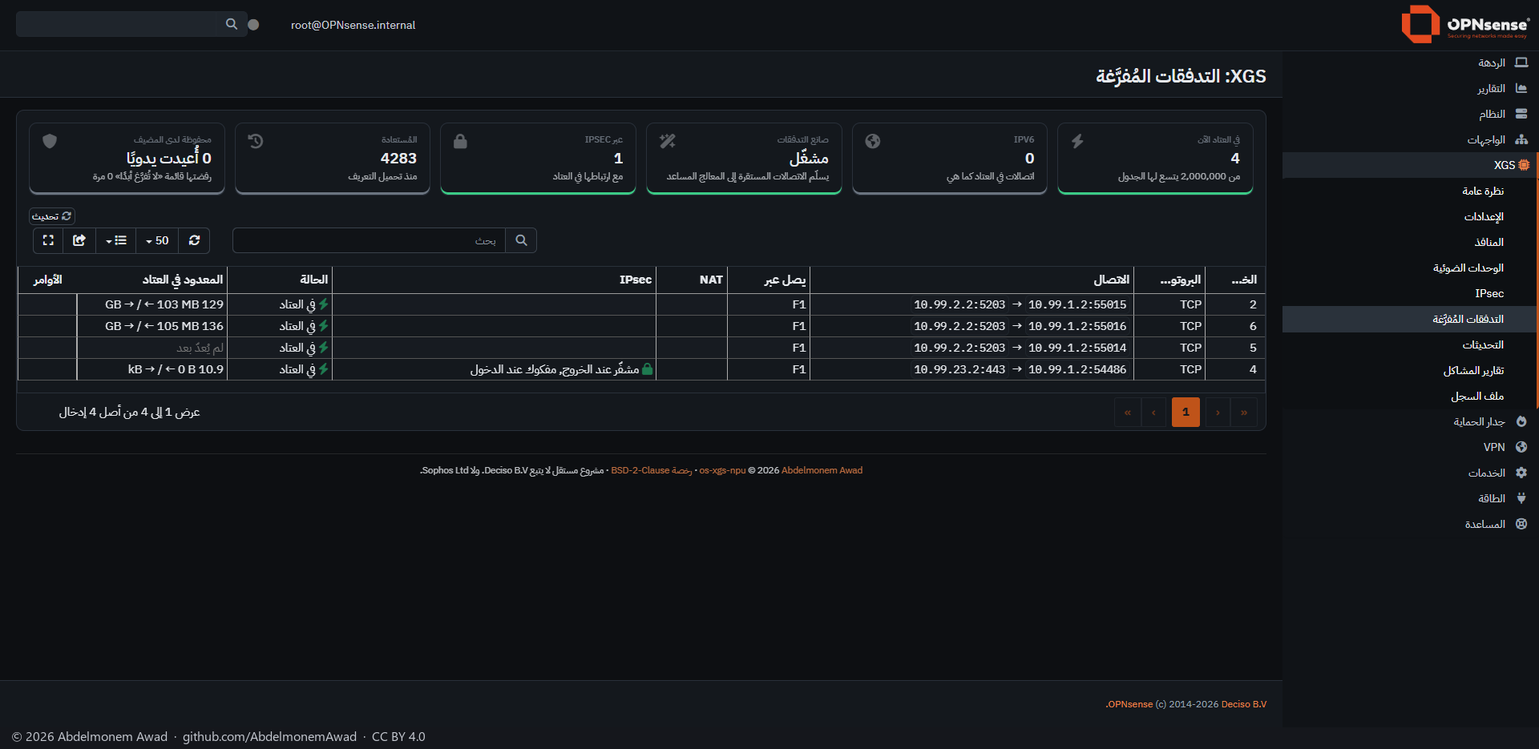
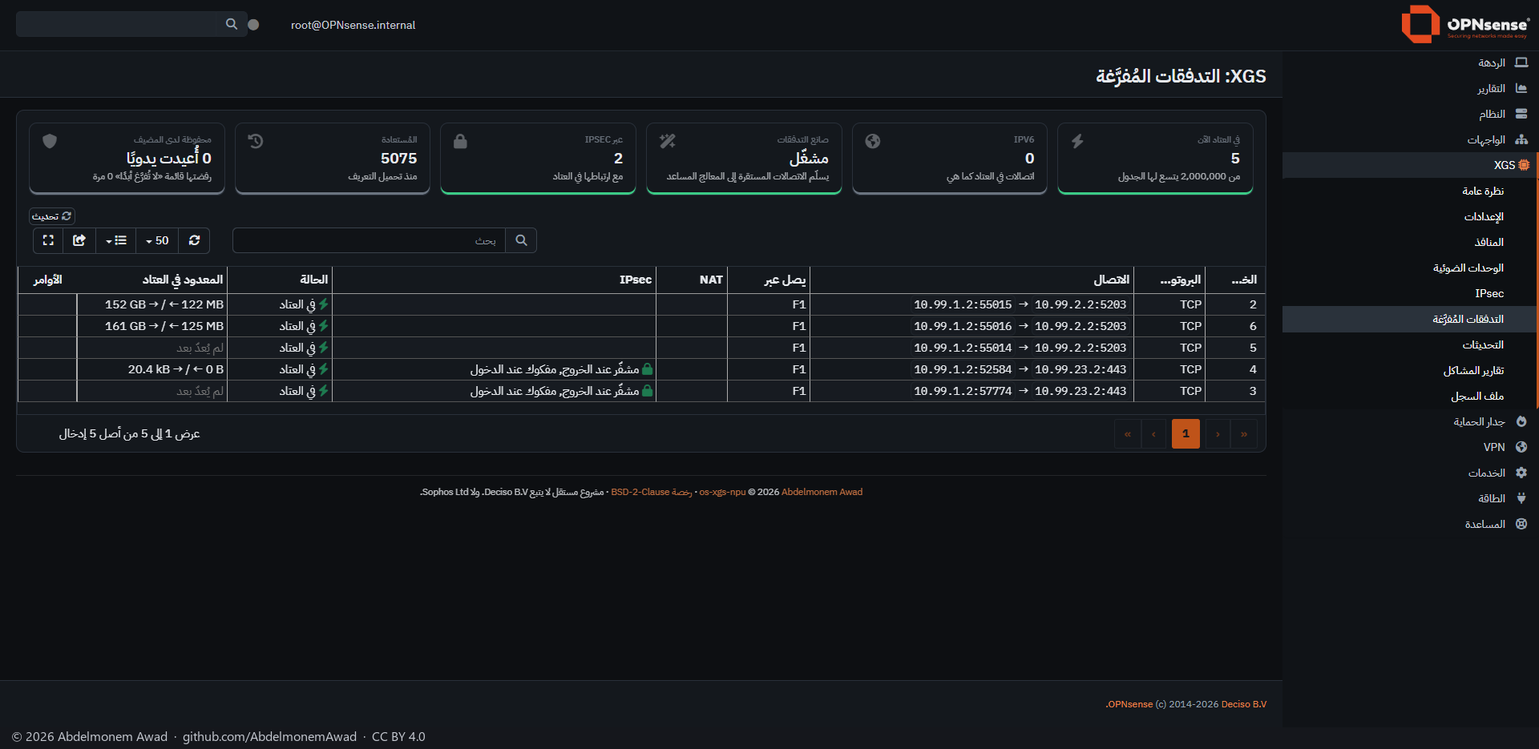
docs: counts on a reused slot, given to pf, and the port counts, measured; the pages photographed with traffic

diff --git a/docs/images/README.md b/docs/images/README.md
@@ -17,12 +17,12 @@ to a new image, and the checks fail on one without them.
 
 | folder | what it holds | images |
 |---|---|---|
-| [screens/](screens/) | The web interface, page by page, in English and in Arabic | 30 |
+| [screens/](screens/) | The web interface, page by page, in English and in Arabic | 36 |
 | [hardware/](hardware/) | Photographs and drawings of the appliances, one folder each | 40 |
-| [measurements/](measurements/) | Each measurement's photographs, in a folder named after its page | 149 |
+| [measurements/](measurements/) | Each measurement's photographs, in a folder named after its page | 153 |
 | [readme/](readme/) | The README's banner and status board, drawn by tools/readme-art.py | 4 |
 
-223 images in all.
+233 images in all.
 
 ## The web interface
 
@@ -34,9 +34,12 @@ in [docs/guide/the-pages.md](../guide/the-pages.md), English first and Arabic un
 <tr><td valign="top"><sub>Lobby: Dashboard on an XGS 3300</sub></td><td valign="top"><a href="screens/en/00-lobby-dashboard.png"><img src="screens/en/00-lobby-dashboard.png" alt="Lobby: Dashboard on an XGS 3300 - English" width="100%"></a></td><td valign="top"><a href="screens/ar/00-lobby-dashboard.png"><img src="screens/ar/00-lobby-dashboard.png" alt="Lobby: Dashboard on an XGS 3300 - Arabic" width="100%"></a></td></tr>
 <tr><td valign="top"><sub>XGS: Overview on an XGS 3300: the front panel drawn with each port's link, cards for the coprocessor, hardware offloading, the IPsec engine, the front ports, the switch chip and the last restart, and the board's limits</sub></td><td valign="top"><a href="screens/en/01-xgs-overview.png"><img src="screens/en/01-xgs-overview.png" alt="XGS: Overview on an XGS 3300: the front panel drawn with each port's link, cards for the coprocessor, hardware offloading, the IPsec engine, the front ports, the switch chip and the last restart, and the board's limits - English" width="100%"></a></td><td valign="top"><a href="screens/ar/01-xgs-overview.png"><img src="screens/ar/01-xgs-overview.png" alt="XGS: Overview on an XGS 3300: the front panel drawn with each port's link, cards for the coprocessor, hardware offloading, the IPsec engine, the front ports, the switch chip and the last restart, and the board's limits - Arabic" width="100%"></a></td></tr>
 <tr><td valign="top"><sub>XGS: Settings on an XGS 3300</sub></td><td valign="top"><a href="screens/en/02-xgs-settings.png"><img src="screens/en/02-xgs-settings.png" alt="XGS: Settings on an XGS 3300 - English" width="100%"></a></td><td valign="top"><a href="screens/ar/02-xgs-settings.png"><img src="screens/ar/02-xgs-settings.png" alt="XGS: Settings on an XGS 3300 - Arabic" width="100%"></a></td></tr>
+<tr><td valign="top"><sub>XGS: Settings on an XGS 3300, further down: Never offloaded, Cut open connections when listed, Cut connections by TLS fingerprint</sub></td><td valign="top"><a href="screens/en/02b-xgs-settings-cuts.png"><img src="screens/en/02b-xgs-settings-cuts.png" alt="XGS: Settings on an XGS 3300, further down: Never offloaded, Cut open connections when listed, Cut connections by TLS fingerprint - English" width="100%"></a></td><td valign="top"><a href="screens/ar/02b-xgs-settings-cuts.png"><img src="screens/ar/02b-xgs-settings-cuts.png" alt="XGS: Settings on an XGS 3300, further down: Never offloaded, Cut open connections when listed, Cut connections by TLS fingerprint - Arabic" width="100%"></a></td></tr>
 <tr><td valign="top"><sub>XGS: Ports on an XGS 3300</sub></td><td valign="top"><a href="screens/en/03-xgs-ports.png"><img src="screens/en/03-xgs-ports.png" alt="XGS: Ports on an XGS 3300 - English" width="100%"></a></td><td valign="top"><a href="screens/ar/03-xgs-ports.png"><img src="screens/ar/03-xgs-ports.png" alt="XGS: Ports on an XGS 3300 - Arabic" width="100%"></a></td></tr>
 <tr><td valign="top"><sub>XGS: Transceivers on an XGS 3300</sub></td><td valign="top"><a href="screens/en/04-xgs-transceivers.png"><img src="screens/en/04-xgs-transceivers.png" alt="XGS: Transceivers on an XGS 3300 - English" width="100%"></a></td><td valign="top"><a href="screens/ar/04-xgs-transceivers.png"><img src="screens/ar/04-xgs-transceivers.png" alt="XGS: Transceivers on an XGS 3300 - Arabic" width="100%"></a></td></tr>
 <tr><td valign="top"><sub>XGS: IPsec on an XGS 3300</sub></td><td valign="top"><a href="screens/en/05-xgs-ipsec.png"><img src="screens/en/05-xgs-ipsec.png" alt="XGS: IPsec on an XGS 3300 - English" width="100%"></a></td><td valign="top"><a href="screens/ar/05-xgs-ipsec.png"><img src="screens/ar/05-xgs-ipsec.png" alt="XGS: IPsec on an XGS 3300 - Arabic" width="100%"></a></td></tr>
+<tr><td valign="top"><sub>XGS: IPsec, Associations in the engine: one association each way through the tunnel to the XGS 136</sub></td><td valign="top"><a href="screens/en/05b-xgs-ipsec-associations.png"><img src="screens/en/05b-xgs-ipsec-associations.png" alt="XGS: IPsec, Associations in the engine: one association each way through the tunnel to the XGS 136 - English" width="100%"></a></td><td valign="top"><a href="screens/ar/05b-xgs-ipsec-associations.png"><img src="screens/ar/05b-xgs-ipsec-associations.png" alt="XGS: IPsec, Associations in the engine: one association each way through the tunnel to the XGS 136 - Arabic" width="100%"></a></td></tr>
+<tr><td valign="top"><sub>XGS: IPsec, Counters: frames decrypted and encrypted by the engine</sub></td><td valign="top"><a href="screens/en/05c-xgs-ipsec-counters.png"><img src="screens/en/05c-xgs-ipsec-counters.png" alt="XGS: IPsec, Counters: frames decrypted and encrypted by the engine - English" width="100%"></a></td><td valign="top"><a href="screens/ar/05c-xgs-ipsec-counters.png"><img src="screens/ar/05c-xgs-ipsec-counters.png" alt="XGS: IPsec, Counters: frames decrypted and encrypted by the engine - Arabic" width="100%"></a></td></tr>
 <tr><td valign="top"><sub>XGS: Offloaded Flows on an XGS 3300</sub></td><td valign="top"><a href="screens/en/06-xgs-offloaded-flows.png"><img src="screens/en/06-xgs-offloaded-flows.png" alt="XGS: Offloaded Flows on an XGS 3300 - English" width="100%"></a></td><td valign="top"><a href="screens/ar/06-xgs-offloaded-flows.png"><img src="screens/ar/06-xgs-offloaded-flows.png" alt="XGS: Offloaded Flows on an XGS 3300 - Arabic" width="100%"></a></td></tr>
 <tr><td valign="top"><sub>XGS: Updates on an XGS 3300</sub></td><td valign="top"><a href="screens/en/07-xgs-updates.png"><img src="screens/en/07-xgs-updates.png" alt="XGS: Updates on an XGS 3300 - English" width="100%"></a></td><td valign="top"><a href="screens/ar/07-xgs-updates.png"><img src="screens/ar/07-xgs-updates.png" alt="XGS: Updates on an XGS 3300 - Arabic" width="100%"></a></td></tr>
 <tr><td valign="top"><sub>XGS: Problem Reports on an XGS 3300</sub></td><td valign="top"><a href="screens/en/08-xgs-problem-reports.png"><img src="screens/en/08-xgs-problem-reports.png" alt="XGS: Problem Reports on an XGS 3300 - English" width="100%"></a></td><td valign="top"><a href="screens/ar/08-xgs-problem-reports.png"><img src="screens/ar/08-xgs-problem-reports.png" alt="XGS: Problem Reports on an XGS 3300 - Arabic" width="100%"></a></td></tr>
@@ -163,7 +166,7 @@ The page: [bench-2026-10-17.md](../measurements/bench-2026-10-17.md).
 | [34-ipsec-hw-pc-to-136.png](measurements/bench-2026-10-17/34-ipsec-hw-pc-to-136.png) | IPsec in hardware, PC to the XGS 136: 902 Mbit/s | [bench-2026-10-17.md](../measurements/bench-2026-10-17.md) |
 | [35-ipsec-hw-136-to-pc.png](measurements/bench-2026-10-17/35-ipsec-hw-136-to-pc.png) | IPsec in hardware, the XGS 136 to the PC: 893 Mbit/s | [bench-2026-10-17.md](../measurements/bench-2026-10-17.md) |
 
-### measurements/hw-counters-2026-10-19/ (2)
+### measurements/hw-counters-2026-10-19/ (6)
 
 The page: [hw-counters-2026-10-19.md](../measurements/hw-counters-2026-10-19.md).
 
@@ -171,6 +174,10 @@ The page: [hw-counters-2026-10-19.md](../measurements/hw-counters-2026-10-19.md)
 |---|---|---|
 | [01-xgs3300-4gb.png](measurements/hw-counters-2026-10-19/01-xgs3300-4gb.png) | Run 1: 4,000,000,000 bytes, counted by the coprocessor and by pf, against what the VM received | [hw-counters-2026-10-19.md](../measurements/hw-counters-2026-10-19.md) |
 | [02-xgs3300-4gb-retransmissions.png](measurements/hw-counters-2026-10-19/02-xgs3300-4gb-retransmissions.png) | Run 2: the same, with the PC's retransmission count | [hw-counters-2026-10-19.md](../measurements/hw-counters-2026-10-19.md) |
+| [03-xgs3300-reused-slot.png](measurements/hw-counters-2026-10-19/03-xgs3300-reused-slot.png) | Run 3: a connection on a slot that had just carried a stream, counted from its own first byte | [hw-counters-2026-10-19.md](../measurements/hw-counters-2026-10-19.md) |
+| [04-xgs3300-given-to-pf.png](measurements/hw-counters-2026-10-19/04-xgs3300-given-to-pf.png) | Run 4: the coprocessor's counts given to pf - its states, and the rules that passed them | [hw-counters-2026-10-19.md](../measurements/hw-counters-2026-10-19.md) |
+| [05-xgs3300-port-counts.png](measurements/hw-counters-2026-10-19/05-xgs3300-port-counts.png) | The port counts, summed over every message: a stream in hardware, and the same through the host | [hw-counters-2026-10-19.md](../measurements/hw-counters-2026-10-19.md) |
+| [06-xgs3300-sessions-page.png](measurements/hw-counters-2026-10-19/06-xgs3300-sessions-page.png) | Firewall: Diagnostics: Sessions with the coprocessor's counts given to pf: each stream at 80 GB and more | [hw-counters-2026-10-19.md](../measurements/hw-counters-2026-10-19.md) |
 
 ### measurements/ipv6-and-queues-2026-10-18/ (3)
 

diff --git a/docs/measurements/hw-counters-2026-10-19.md b/docs/measurements/hw-counters-2026-10-19.md
@@ -79,7 +79,92 @@ its own, photographed.
   counters (type 0), 187 of connection counts (type 1), 373 of IPsec association counters (type 2);
   183 entries applied, 4 for a connection already gone, none that could not be read to its end
   (`dev.octep.0.dp.cmsg_rx`).
-- **Not done yet**: the counts are kept and shown, not yet given to pf - its state's counters, and the
+- ~~**Not done yet**: the counts are kept and shown, not yet given to pf - its state's counters, and the
   interface counters, still miss what went through hardware, which the vendor's host fixes by adding
-  each message's difference to the connection's state; nor are the interface counters (type 0) read.
-  The XGS 136's coprocessor has not been looked at for the same messages.
+  each message's difference to the connection's state; nor are the interface counters (type 0) read.~~
+  Both done the same day, below. The XGS 136's coprocessor has not been looked at for the same
+  messages.
+
+## After the fix: a slot used before
+
+The fix of [#515](https://github.com/AbdelmonemAwad/os-xgs-npu/issues/515), loaded by a reboot
+(`octep.ko` 397,752 bytes, md5 `ee89218b`): two streams for eight seconds first, 3.51 GB, their
+slots given back; then the same 4,000,000,000 bytes on one connection, which took slot 4 at its
+second revision - a slot that had just carried one of those streams.
+
+| | run 3, a slot used before, 4.11 Gbit/s |
+|---|---|
+| the coprocessor counted | 2,740,508 packets, 4,110,756,200 bytes |
+| pf counted, before the flow was made | 30 packets, 42,092 bytes |
+| **together** | **2,740,538 packets, 4,110,798,292 bytes** |
+| the VM received | 2,740,385 frames, 4,110,543,603 bytes |
+| counted less received | 153 packets, 254,689 bytes |
+| the PC's retransmissions meanwhile, all its connections | 994 |
+
+![Run 3: a connection on a slot that had just carried a stream, counted from its own first byte](../images/measurements/hw-counters-2026-10-19/03-xgs3300-reused-slot.png)
+
+- **The slot's history did not come with it**: the stream before it on the same slot had carried
+  about 1.75 GB, and the count is the connection's own, the data and forty bytes a packet. It exceeds
+  them by 1,176,772 bytes - about 800 segments sent twice, in a run where the PC sent 994 again - and
+  the VM, which received 153 packets fewer than were counted, took most of them twice too: what
+  crossed the appliance, and was counted there, is what the sender put on the wire.
+
+## Given to pf
+
+`dev.octep.0.dp.hw_to_pf` (off by default, set to 1 for the run): every few seconds the keep-alive
+adds what the coprocessor counted for a connection since its last visit to pf's states for it, and
+to the counters of the rule that passed it, as the packets would have had they come through pf.
+
+| | run 4, 3.77 Gbit/s |
+|---|---|
+| the coprocessor counted | 2,739,882 packets, 4,109,817,200 bytes; back 37,506 packets, 1,501,208 bytes |
+| **pf's state, afterwards** | **2,739,912 packets, 4,109,859,292 bytes; back 37,508 packets, 1,501,300 bytes** |
+| that is | pf's own 30 packets and 42,092 bytes (2 and 92 back), and every one of the coprocessor's |
+| the VM received | 2,739,752 frames, 4,109,594,103 bytes |
+| the rules that passed it (one for each of its two states) | moved by 2,777,501 and 2,777,527 packets, 4,111,375,246 and 4,111,376,500 bytes |
+
+![Run 4: the coprocessor's counts given to pf - its states, and the rules that passed them](../images/measurements/hw-counters-2026-10-19/04-xgs3300-given-to-pf.png)
+
+- **pf's state now holds the whole connection**, to the packet: what it saw itself and what the
+  coprocessor counted, nothing twice. Each rule moved by the connection's packets both ways
+  (2,777,420) and a few dozen of other connections on the same rules.
+- And so OPNsense's own pages show it. **Firewall: Diagnostics: Sessions**, during two streams in
+  hardware with `hw_to_pf` on: 80.17 and 82.93 GB for connections pf would otherwise have shown at a
+  few kilobytes.
+
+![Firewall: Diagnostics: Sessions with the coprocessor's counts given to pf: each stream at 80 GB and more](../images/measurements/hw-counters-2026-10-19/06-xgs3300-sessions-page.png)
+
+- A first attempt at run 4 read the state of the run before, still closing on the same server port,
+  for the summary; the states and rules it printed were right, its last lines were not. The script
+  now picks the connection by its port at the PC, and the photograph is of the run after.
+
+## The port counts
+
+The coprocessor's other message, type 0 (`LIF_STATS`), counts each port. Every one of them was kept
+during a stream (`images/deploy/lif-sample.sh`, from `dev.octep.0.dp.cmsg_last`) and summed
+(`lif-decode.py`), first in hardware, then with the flow maker off so the same stream went through
+the host (`lab-lif-counts.sh`):
+
+| | in hardware, 20 s, 3.86 Gbit/s | through the host, 10 s, 2.58 Gbit/s |
+|---|---|---|
+| messages | 23, none missed | 1, from before the stream |
+| F1, the first direction | 6,616,749 packets, 10,016,682,019 bytes, 1,513.8 a packet | 5 packets, 612 bytes |
+| F1, the second | 158,226 packets, 8,547,698 bytes, 54.0 a packet | 4 packets, 496 bytes |
+| F2, the second | 6,616,749 packets, 10,016,681,983 bytes | 5 packets, 606 bytes |
+| the VM received | 6,616,635 frames, 10,016,481,150 bytes | 2,216,702 frames, 3,355,117,471 bytes |
+| the host's own count of F1, in | 401 packets | 2,216,890 packets, 3,355,366,469 bytes |
+
+![The port counts, summed over every message: a stream in hardware, and the same through the host](../images/measurements/hw-counters-2026-10-19/05-xgs3300-port-counts.png)
+
+- **A port count is not a running total**: each message holds what moved since the one before, about
+  once a second while the port forwards anything in hardware. Summed, they are the stream to within
+  114 packets of what the VM received.
+- **The first direction is what arrived on the port, the second what left it**, and the bytes are the
+  Ethernet frame without its FCS - 1,514 for a full frame, 54 for an acknowledgement, 60 for one
+  padded on the wire - as an interface counts them.
+- **Only what the coprocessor forwarded itself**: the same stream through the host brought no message
+  at all, while the host's own counter carried it. So these are exactly what an interface's counters
+  miss under offloading, and `dev.octep.0.dp.lif_apply` adds them there.
+- The reader that first took them for totals, as a connection's are, was corrected after this
+  measurement; that correction is built and installed (`octep.ko` md5 `7c53d0e1`) and loads at the
+  next boot, so `lif_apply` has not yet been measured on the interfaces' counters, and stays off.

diff --git a/docs/guide/the-pages.md b/docs/guide/the-pages.md
@@ -60,7 +60,9 @@ light. Then a card each for the coprocessor and its link, hardware offloading, t
 front ports, the switch chip, and the cause of the last restart as the chipset recorded it. Under them
 **Coprocessor link**, **This board's limits** - the connections and next hops the board holds, with a
 bar of how much of each is in use - and the control facility. **Datapath counters** and **Technical
-details** are its other tabs.
+details** are its other tabs. Photographed again on 2026-10-19 while two streams crossed the appliance
+in hardware and a third went through the IPsec tunnel to the XGS 136: four connections in hardware,
+two associations in the engine.
 
 <details><summary>The same page in Arabic</summary>
 
@@ -78,14 +80,18 @@ hardware offloading, the flow maker that hands settled connections to the coproc
 **Never offloaded** - addresses, networks and ports whose connections always stay with the firewall.
 **IPsec** puts the associations in the coprocessor's engine. **Full help** shows the text under each
 setting, as here; **advanced mode** shows the rest. Since 2026-10-19 **Acceleration** also has **Cut
-open connections when listed**, after the photograph: block lists whose additions cut the connections
-already open ([measured](../measurements/lists-cut-2026-10-19.md)), and **Cut connections by TLS
-fingerprint**: JA4 fingerprints whose connections are cut, read from the Intrusion Detection's log
-([measured](../measurements/ja4-cut-2026-10-19.md)).
+open connections when listed**: block lists whose additions cut the connections already open
+([measured](../measurements/lists-cut-2026-10-19.md)), and **Cut connections by TLS fingerprint**:
+JA4 fingerprints whose connections are cut, read from the Intrusion Detection's log
+([measured](../measurements/ja4-cut-2026-10-19.md)) - both below, further down the same page.
+
+![XGS: Settings on an XGS 3300, further down: Never offloaded, Cut open connections when listed, Cut connections by TLS fingerprint](../images/screens/en/02b-xgs-settings-cuts.png)
 
 <details><summary>The same page in Arabic</summary>
 
 ![XGS: Settings on an XGS 3300, in Arabic](../images/screens/ar/02-xgs-settings.png)
+
+![XGS: Settings on an XGS 3300, further down, in Arabic](../images/screens/ar/02b-xgs-settings-cuts.png)
 
 </details>
 
@@ -127,11 +133,23 @@ weakest light. The serial numbers are masked in this photograph.
 What the coprocessor's crypto engine holds now: whether the engine is in use, the associations in it,
 those installed since the boot and the offers it declined. The tunnels themselves are configured
 where they always are, under **VPN: IPsec**; whether their associations go to the engine is set on
-**Settings**. **Associations in the engine** and **Counters** are its other tabs.
+**Settings**. Photographed on 2026-10-19 with the tunnel to the XGS 136 carrying a stream of fetches:
+the engine on, an association each way. **Associations in the engine** lists them - direction, SPI,
+the tunnel's two ends, the port, the replay window and the handle - and **Counters** shows the
+engine's work: frames decrypted on arrival (`rx_done`), frames encrypted on the way out
+(`tx_encrypt`), and the connections made through the tunnel.
+
+![XGS: IPsec, Associations in the engine: one association each way through the tunnel to the XGS 136](../images/screens/en/05b-xgs-ipsec-associations.png)
+
+![XGS: IPsec, Counters: frames decrypted and encrypted by the engine](../images/screens/en/05c-xgs-ipsec-counters.png)
 
 <details><summary>The same page in Arabic</summary>
 
 ![XGS: IPsec on an XGS 3300, in Arabic](../images/screens/ar/05-xgs-ipsec.png)
+
+![XGS: IPsec, Associations in the engine, in Arabic](../images/screens/ar/05b-xgs-ipsec-associations.png)
+
+![XGS: IPsec, Counters, in Arabic](../images/screens/ar/05c-xgs-ipsec-counters.png)
 
 </details>
 
@@ -142,11 +160,14 @@ where they always are, under **VPN: IPsec**; whether their associations go to th
 The connections the coprocessor forwards itself, one row each, with **Return to host** on every row
 to hand one back to the firewall. The cards count the table against the board's size, the IPv6 ones,
 those with their IPsec association in hardware, those taken back, and those kept with the host - by
-hand or by the never-offloaded list. No connection crossed this appliance at the moment of the
-photograph, so the table is empty; [the measurements](../measurements/) show it full. Since
-2026-10-19 the XGS 3300's rows also have **Counted in hardware** - the bytes the coprocessor counted
-each way, from the opener and back to it, with **Packets in hardware** among the hidden columns - read
-from the counts the coprocessor sends about once a second ([measured](../measurements/hw-counters-2026-10-19.md)).
+hand or by the never-offloaded list. ~~No connection crossed this appliance at the moment of the
+photograph, so the table is empty~~ Photographed again on 2026-10-19 with traffic: two streams in
+hardware, a third connection open beside them, and one through the IPsec tunnel - encrypted on the way
+out and decrypted on the way in by the engine. Since that day the XGS 3300's rows also have **Counted
+in hardware** - the bytes the coprocessor counted each way, from the opener and back to it, with
+**Packets in hardware** among the hidden columns - read from the counts the coprocessor sends about
+once a second ([measured](../measurements/hw-counters-2026-10-19.md)); a connection the coprocessor has not yet named in a
+message says **not counted yet**.
 
 <details><summary>The same page in Arabic</summary>
 

diff --git a/docs/octep/flow-lifecycle.md b/docs/octep/flow-lifecycle.md
@@ -167,7 +167,7 @@ The driver's RPC path is disqualified twice over, and neither reason is "it slee
 - it then **busy-waits**, not sleeps. The completion loop runs
   `DELAY(1000)` (`contrib/octep/octep_rpc.c:749`) as many times as
   `OCTEP_RPC_CMD_WAIT_MS` allows (`contrib/octep/octep_rpc.c:851`), and that constant is **2000**
-  (`contrib/octep/octep.h:2595`).
+  (`contrib/octep/octep.h:2608`).
 
 So the worst case is two seconds of spinning on a CPU with a driver mutex and the net epoch both
 held. Inside an epoch section that is worse than sleeping would be: it stalls every epoch writer on
@@ -200,7 +200,7 @@ is not a teardown.
 
 Two points of shape, not of mechanism, come from this tree rather than from FreeBSD. `npuep` says
 why a taskqueue and not a callout (`contrib/npuep/npunwa.c:106`), and `octep` says the same at
-`octep_dp_link_poll` (`contrib/octep/octep_dp.c:8206`), which is enqueued on `taskqueue_thread`
+`octep_dp_link_poll` (`contrib/octep/octep_dp.c:8408`), which is enqueued on `taskqueue_thread`
 (`contrib/octep/octep_dp.c:2774`) because `octep_nwa_do_request()` sleeps
 (`contrib/octep/octep_nwa.c:791`). A new consumer of the RPC path should have **its own**
 taskqueue rather than adding two-second items to `taskqueue_thread`, which is single-threaded and
@@ -479,8 +479,8 @@ act on the difference, repeatedly.
 
 **And this tree already has that pattern, with the scar tissue to prove it.** The receive-filter
 reconcile in `octep` keeps two pieces of state per attribute and no more - what is wanted, and what
-the far side was last *successfully* told (`filt_want`, `filt_have`, `contrib/octep/octep.h:2158`). The wanted value is
-read fresh each pass rather than recorded from an event (`IFF_PROMISC`, `contrib/octep/octep_dp.c:8149`), so there
+the far side was last *successfully* told (`filt_want`, `filt_have`, `contrib/octep/octep.h:2167`). The wanted value is
+read fresh each pass rather than recorded from an event (`IFF_PROMISC`, `contrib/octep/octep_dp.c:8351`), so there
 is no transition to miss and no second copy to go stale. A request that fails records nothing, so
 the comparison still disagrees and the next sweep asks again - the whole of the retry, with no
 counter, no budget and no latch. The comment at `contrib/octep/octep_dp.c:7170` records what the

diff --git a/docs/families/parity.md b/docs/families/parity.md
@@ -41,7 +41,8 @@ The completion figures the families' own pages weigh are **96%** for the XGS 330
 | | a connection pf ends, taken out of hardware | ✅ ~~🟡 `CONN_RECLAIM_FP`, not measured with a killed state~~ a stream stopped within two seconds of its states being killed, 2026-10-19 ([measured](../measurements/lists-cut-2026-10-19.md)) | ✅ ~~two `MFLOW_INVALIDATE`s the coprocessor refused - a killed state went on at 942 Mbit/s~~ `CONN_RECLAIM_FP` since 2026-10-18: the stream stops within the second ([measured](../measurements/xgs136-hardware-2026-10-18.md#taking-a-connection-out)) |
 | | a block list cuts the connections already open | ✅ within two seconds, or the minute's cron ([measured](../measurements/lists-cut-2026-10-19.md)) | ✅ the same ([measured](../measurements/lists-cut-2026-10-19.md)) |
 | | a connection cut by its TLS fingerprint (JA4) | ✅ the listed one stopped, the one beside it ran on ([measured](../measurements/ja4-cut-2026-10-19.md)) | 🟡 the same script and cut; not measured |
-| | each connection's packets and bytes, counted by the coprocessor | ✅ read since 2026-10-19: with pf's count, what crossed the wire to 14 packets in 2.74 million ([measured](../measurements/hw-counters-2026-10-19.md)) | ⬜ not looked at |
+| | each connection's packets and bytes, counted by the coprocessor | ✅ read since 2026-10-19: with pf's count, what crossed the wire to 14 packets in 2.74 million; given to pf's state and rule on request, to the packet ([measured](../measurements/hw-counters-2026-10-19.md)) | ⬜ not looked at |
+| | each port's traffic in hardware, counted by the coprocessor | 🟡 read and measured: what the interface's own counters miss, to 114 packets in 6.6 million; adding them to the interfaces is built, not yet measured ([measured](../measurements/hw-counters-2026-10-19.md#the-port-counts)) | ⬜ not looked at |
 | | every flow voided by a ruleset reload | ✅ | ✅ |
 | | a thousand connections at once | 🟡 run on 2026-10-17, its page not published | ✅ ~~⬜ not run~~ 953 of 1,024 in hardware at the link's 996 Mbit/s, the host carrying 1,129 frames in ten seconds, [measured](../measurements/xgs136-hardware-2026-10-18.md#a-thousand-connections-at-once) 2026-10-18 |
 | **IPsec offload** | AES-GCM, both ways | ✅ | ✅ |

diff --git a/docs/octep/ruleset-reload.md b/docs/octep/ruleset-reload.md
@@ -161,7 +161,7 @@ Three cases, all of which this hook will meet in normal operation:
    against its `.kernel` file, `src/opnsense/scripts/octep/bringup.sh:111`), or may be loaded with no coprocessor handshake
    yet. The hook must do nothing, quietly, and must not log once per reload forever - the same
    reasoning `octep_dp_filter_one()` records for a silent failure
-   (`contrib/octep/octep_dp.c:8081`).
+   (`contrib/octep/octep_dp.c:8283`).
 2. **Offload not enabled.** If `FW_CFG_OFFLOAD` is clear there are no flows, so there is nothing to
    invalidate and the bump is pure cost. `fw_cfg` has no read command, so the only thing available
    is what the host last asked for - stated plainly where it is surfaced today
@@ -173,7 +173,7 @@ Three cases, all of which this hook will meet in normal operation:
 
 ## E. The real problem is not the hook. It is the write gate.
 
-`FW_STATE_REV_SET` is command 0, at `#define OCTEP_RPC_CMD_FW_STATE_REV_SET` (`contrib/octep/octep.h:2293`), a two-byte request carrying the
+`FW_STATE_REV_SET` is command 0, at `#define OCTEP_RPC_CMD_FW_STATE_REV_SET` (`contrib/octep/octep.h:2306`), a two-byte request carrying the
 revision at `le16enc(p + 0, (uint16_t)sc->rpc_fw_rev)` (`contrib/octep/octep_rpc.c:389`). The
 driver's own comment says what it does: *"it calls mflow_fpop_invalidate_issue over the whole
 table. Bumping this revision THROWS AWAY every offloaded flow, which is exactly what a ruleset
@@ -269,7 +269,7 @@ Design, not code, and not built. Three files, and the second two are the ones th
 **`contrib/octep/octep_rpc.c`** - a `fw_rev_bump` sysctl handler that increments
 `sc->rpc_fw_rev`, posts command 0 on the driver's own taskqueue rather than inline, and records the
 reply. It must not take `sc->mtx` and then busy-wait in the caller's context: the two-second
-`OCTEP_RPC_CMD_WAIT_MS` (`contrib/octep/octep.h:2595`) would be charged to a PHP process holding a
+`OCTEP_RPC_CMD_WAIT_MS` (`contrib/octep/octep.h:2608`) would be charged to a PHP process holding a
 file lock on `/tmp/rules.debug` (`src/etc/inc/filter.inc:172`), stalling every other reload behind
 it.
 

diff --git a/docs/octep/lif-provisioning.md b/docs/octep/lif-provisioning.md
@@ -37,7 +37,7 @@ ports behind the switch, the same pair at
 `sc ${S}.rpc.cmd=3; sc ${S}.rpc.post=1` (`src/opnsense/scripts/octep/bringup.sh:398`).
 
 Command 3 is `LIF_ADD_UPDATE` and command 5 is `PPORT_UPDATE`
-(`contrib/octep/octep.h:2296`, `contrib/octep/octep.h:2509`). The flags are set once before both loops, at
+(`contrib/octep/octep.h:2309`, `contrib/octep/octep.h:2522`). The flags are set once before both loops, at
 `sc ${S}.rpc.lif_mtu=1500 ${S}.rpc.lif_fwd=2 ${S}.rpc.lif_mask=255`
 (`src/opnsense/scripts/octep/bringup.sh:249`).
 
@@ -90,7 +90,7 @@ entry in that range is what a correctly provisioned table looks like when you re
 
 ### The table cannot be swept contiguously, which is why this is easy to get wrong
 
-A read's answer is bounded by `OCTEP_RPC_DATA_MAX_SIZE` (`contrib/octep/octep.h:2246`), which is
+A read's answer is bounded by `OCTEP_RPC_DATA_MAX_SIZE` (`contrib/octep/octep.h:2259`), which is
 4096 bytes, less the eight-byte response header and the four-byte done magic. At twelve to sixteen
 bytes per entry that is a few hundred entries at most, against a span of 0 to 45056. **There is no
 range that contains all twelve.** They have to be probed at the twelve computed indices, one read

diff --git a/README.md b/README.md
@@ -55,7 +55,8 @@ Two of the six coprocessor families answer now, on silicon that shares nothing.
   ([measured](docs/measurements/lists-cut-2026-10-19.md)), or the Intrusion Detection logs it with a
   listed TLS fingerprint (JA4), which cuts it too ([measured](docs/measurements/ja4-cut-2026-10-19.md)).
   The XGS 3300's coprocessor counts each connection it forwards, and the driver reads those counts:
-  with pf's, they are what crossed the wire ([measured](docs/measurements/hw-counters-2026-10-19.md)). Each driver sizes its table by what the board itself says it holds -
+  with pf's, they are what crossed the wire, and given to pf they put the whole connection in its
+  state and on its rule, where OPNsense's own pages show it ([measured](docs/measurements/hw-counters-2026-10-19.md)). Each driver sizes its table by what the board itself says it holds -
   2,000,000 connections on the XGS 3300, 1,500,000 on the XGS 136
   ([board-limits.md](docs/families/board-limits.md)).
 - **IPsec in the coprocessor's engine.** An association strongSwan installs through OPNsense lands on

diff --git a/docs/findings/nwa-transaction-lock.md b/docs/findings/nwa-transaction-lock.md
@@ -230,7 +230,7 @@ already set; each of them currently writes five fields and then calls, so each b
 **4. Keep `nwa_last_*` as a diagnostic, and only that.** The `nwa.request` sysctl and `nwa.last`
 exist to send a request by hand and read what came back, and that is worth keeping - it is how
 `bringup.sh` reads a port's MAC, and the repository names it as the way to find out whether a
-firmware refuses an attribute (`nwa.request`, `contrib/octep/octep_dp.c:8105`). So the sysctl path keeps writing the
+firmware refuses an attribute (`nwa.request`, `contrib/octep/octep_dp.c:8307`). So the sysctl path keeps writing the
 `nwa_last_*` block under the lock, as *the last transaction*, which is what it is called and what it
 honestly is. The five internal callers stop reading it and take their results through arguments. The
 race disappears not because the block is locked but because **nothing that matters reads it any
